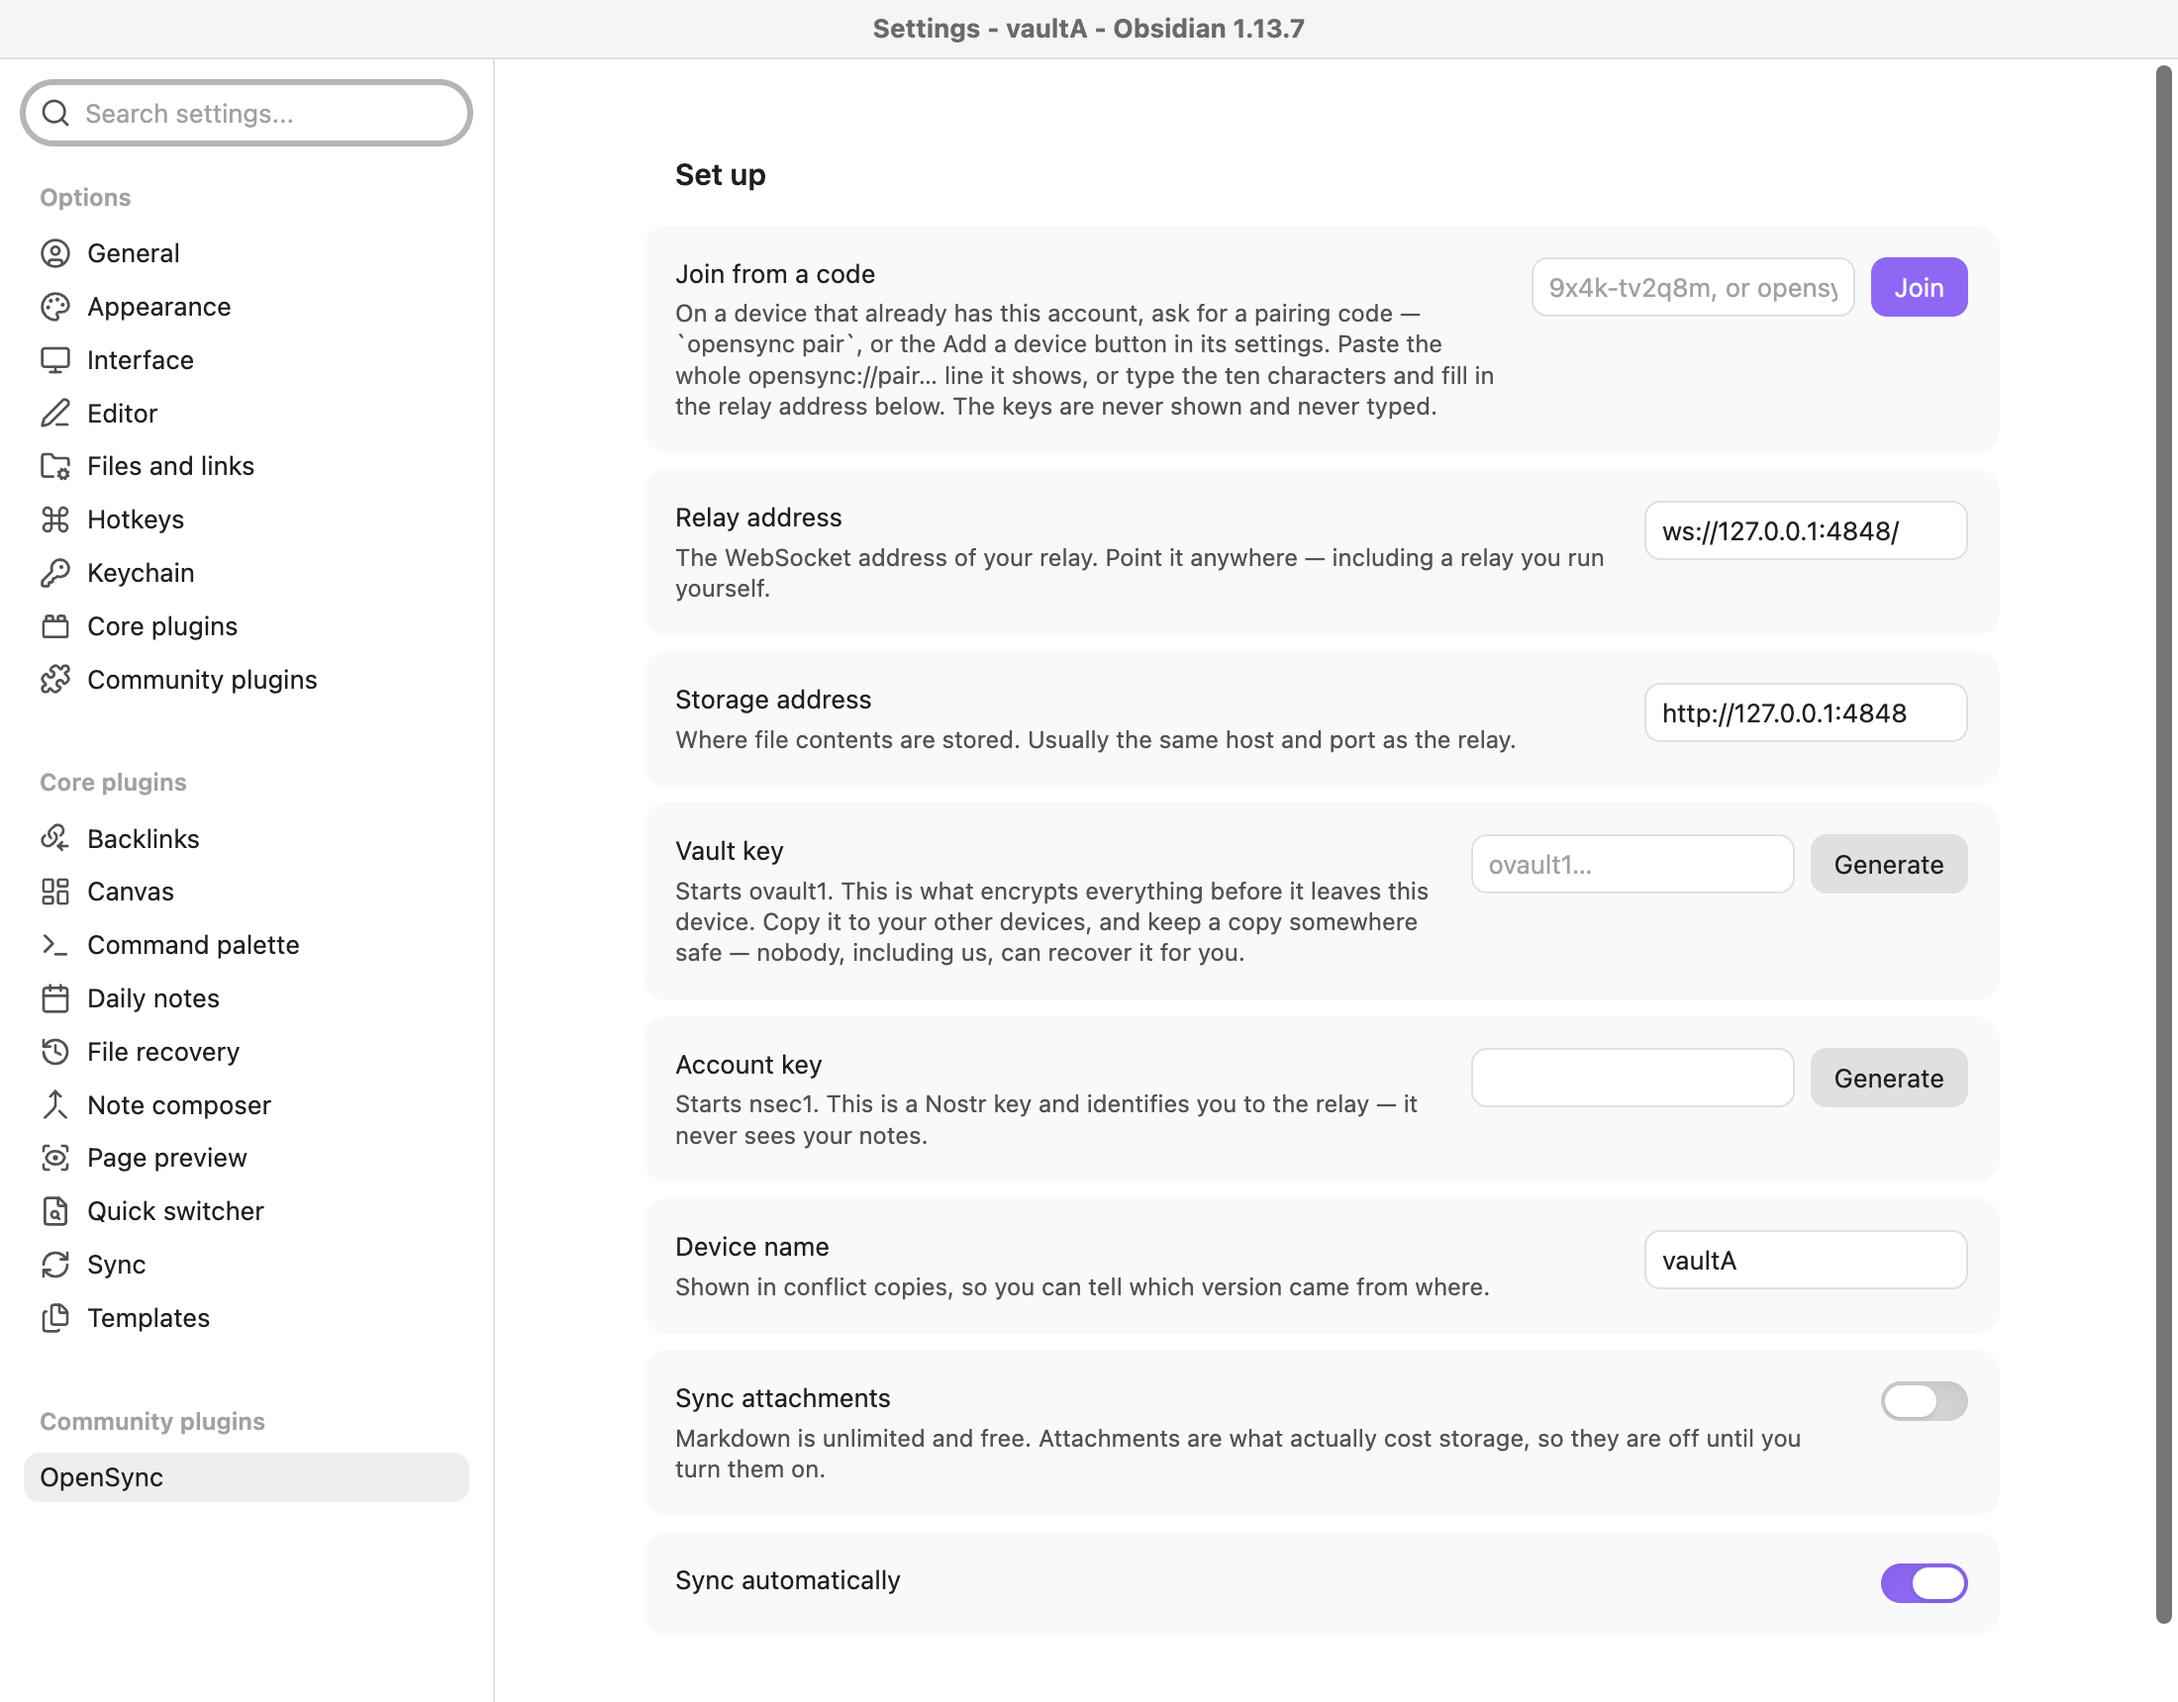
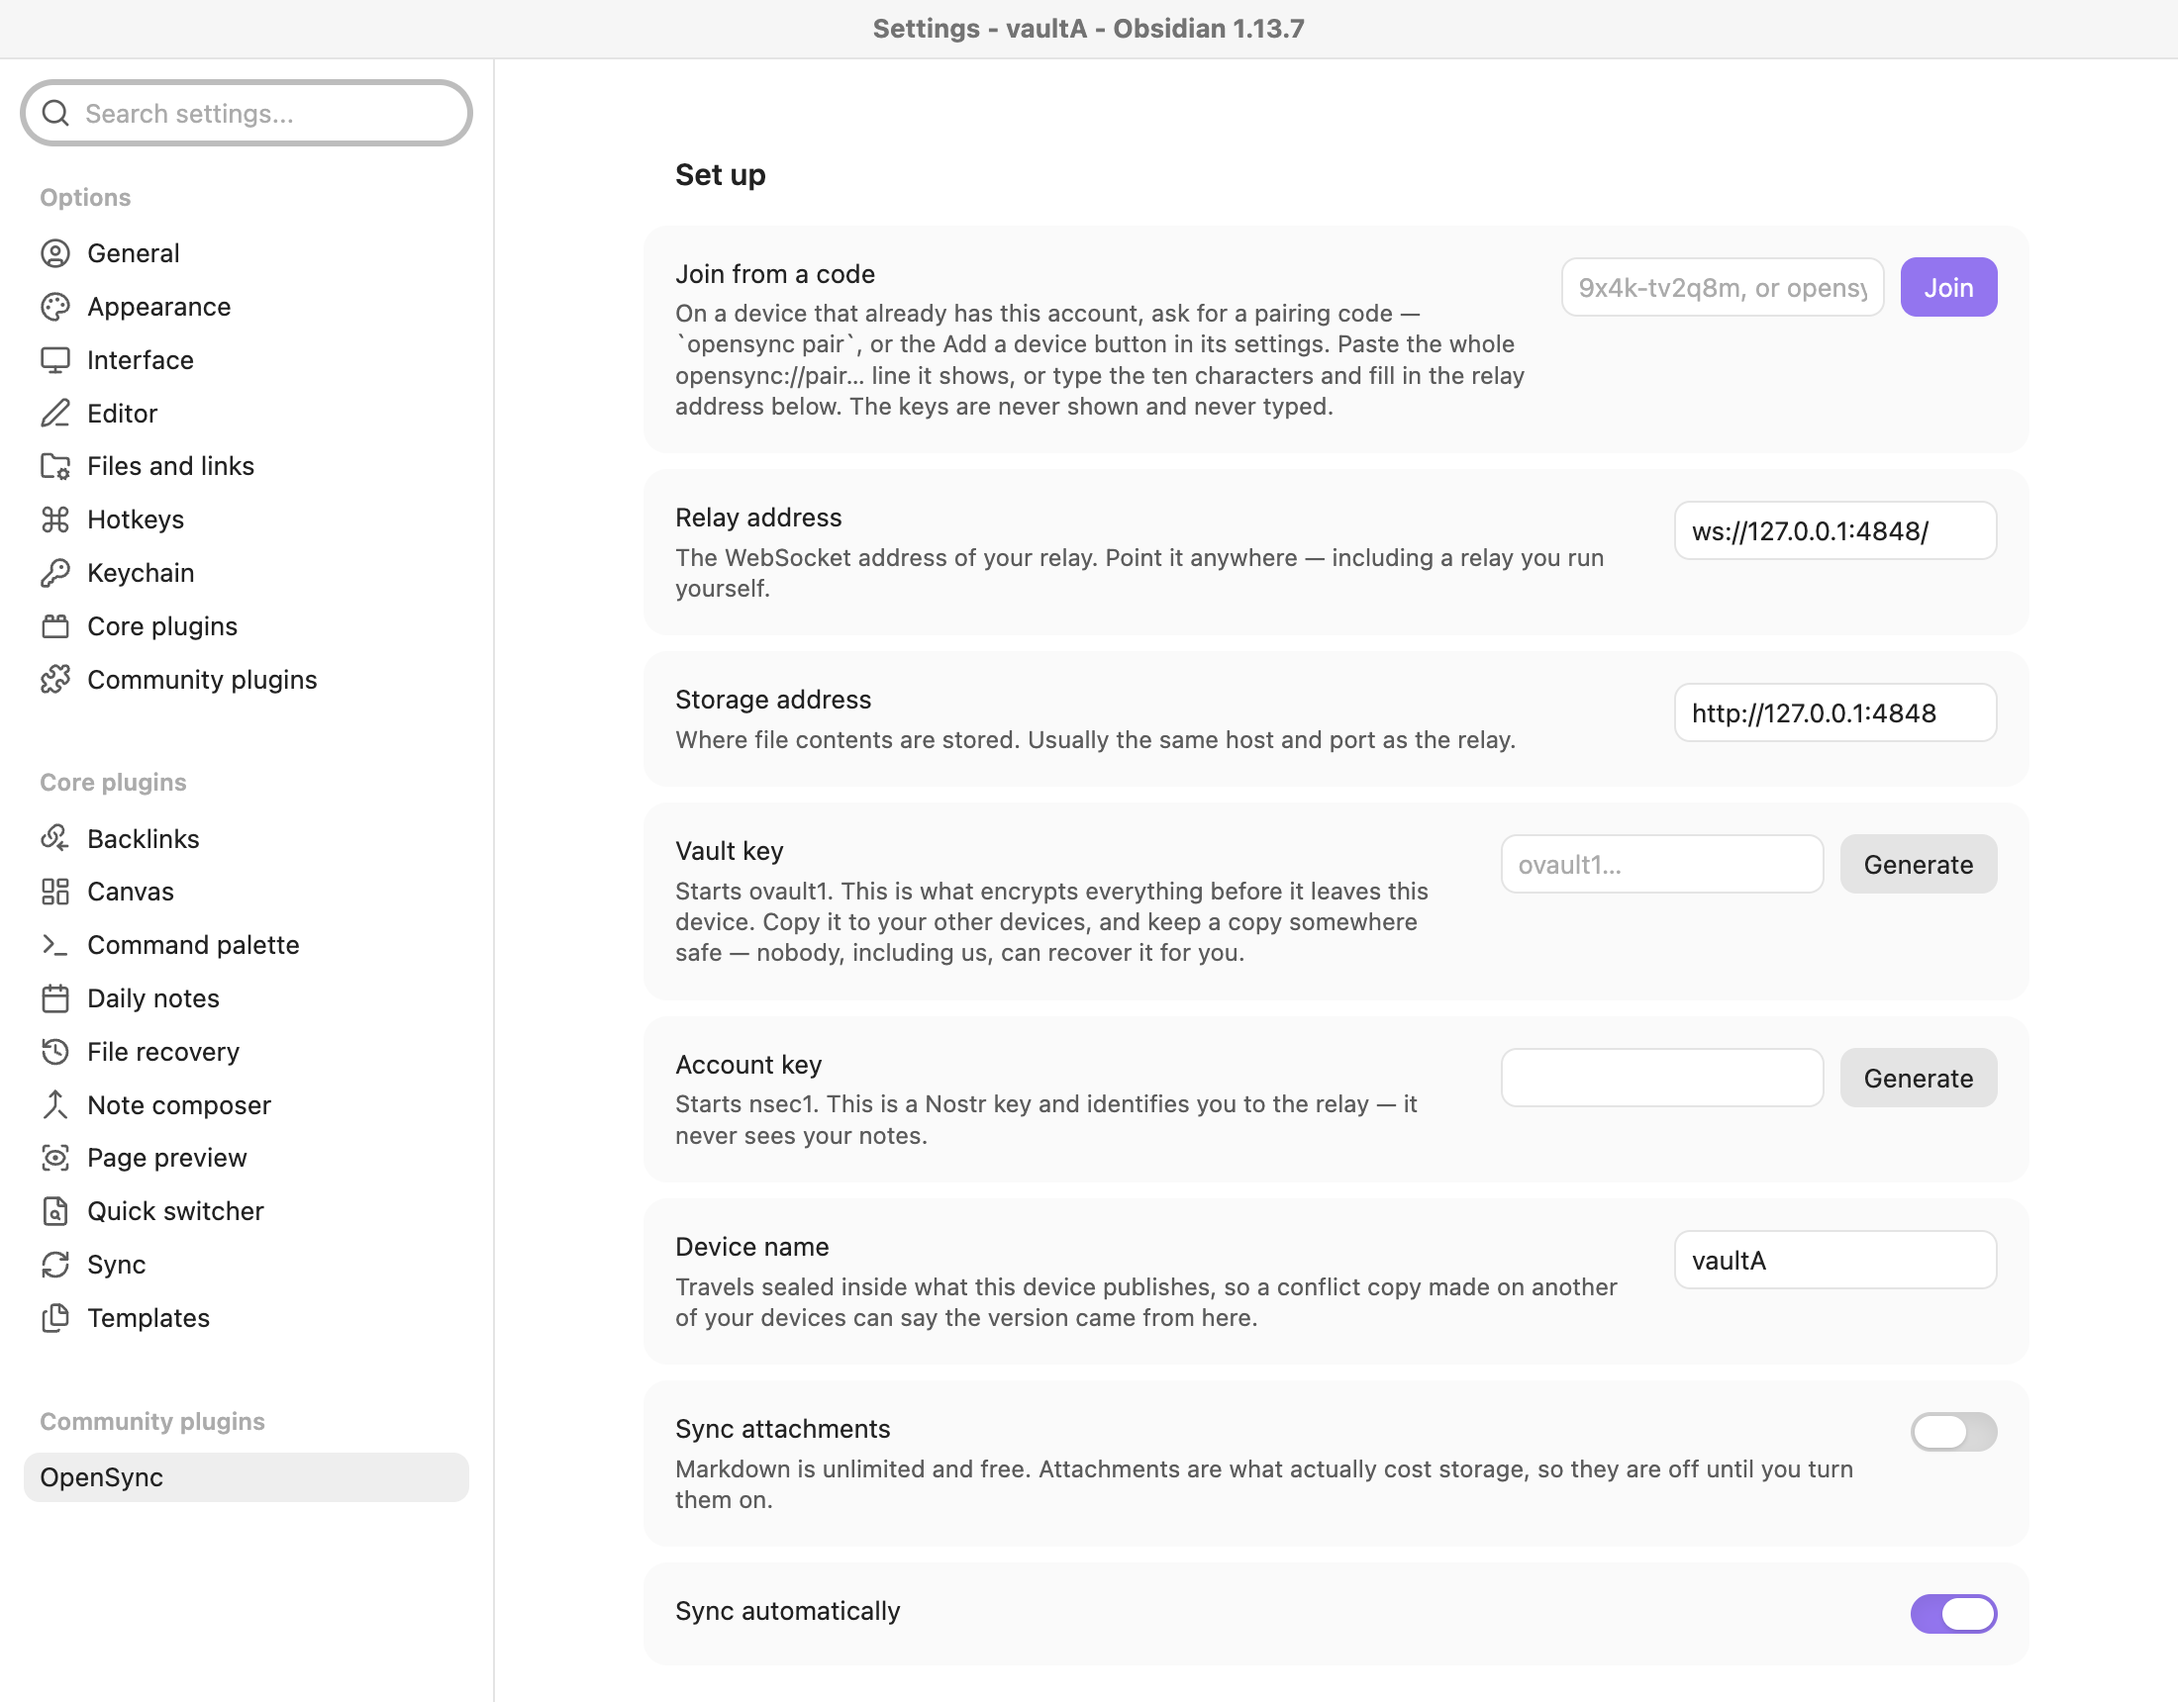
The copy now names the device whose version is in it, and today's date
The open finding from the last pass, fixed in the engine and verified here.
A manifest carries the name of the device that published it, so the device
doing the merge can name a conflict copy after the machine whose text is
inside it rather than after itself. `commit()` passes this vault's label;
`mergeManifests` keeps the same signature, and the label it takes now means
what it says — this device's name, stamped on what this device publishes.

Screenshot 07 is the proof: on vaultB, `Pairing (conflict 2026-09-11 from
vaultA).md`, containing the line written on vaultA. It used to read `from
vaultB`, on vaultB, over vaultA's words.

The check asserts both halves now — the name *and* the contents — because
asserting the name alone would pass just as happily with the two swapped
back.

Also, from the same run: a conflict copy made this morning was dated
yesterday. `toISOString` is UTC, and this date goes into a filename someone
reads to work out which of two files is newer; east of Greenwich that is off
by a day for most of the working day. Both places that stamp a date — the
copy and the recovery kit — now use the date on this device's clock.

And the harness keeps every console error and warning each window produces,
so a step that times out prints what both windows were saying and what the
plugin thought it was doing. A capture run stalled twice on a first sync and
left nothing behind but the word "timeout"; if it happens a third time there
will be something to read.
[…]

diff --git a/src/main.ts b/src/main.ts
@@ -89,6 +89,9 @@ interface ManifestJson {
   generation: number;
   updated_at: number;
   entries: Record<string, ManifestEntry>;
+  /** The device that published it. Absent on manifests written before the
+   *  field existed, and on surfaces that do not set one. */
+  device?: string;
 }
 
 export default class OpenSyncPlugin extends Plugin {
@@ -278,7 +281,11 @@ export default class OpenSyncPlugin extends Plugin {
       const files = await this.readVault();
       fresh.ns.clear();
       for (const [path, bytes] of files) fresh.ns.stage(path, bytes);
-      const commit: Commit = fresh.ns.commit(1n, BigInt(Math.floor(Date.now() / 1000)));
+      const commit: Commit = fresh.ns.commit(
+        1n,
+        BigInt(Math.floor(Date.now() / 1000)),
+        this.settings.deviceLabel,
+      );
       await this.publish(fresh.relay, commit);
       this.base = fresh.ns.openManifest(
         commit.blobs.find((b) => b.id === commit.root)!.bytes,
@@ -334,7 +341,13 @@ export default class OpenSyncPlugin extends Plugin {
     for (const [path, bytes] of local) ns.stage(path, bytes);
 
     const generation = (this.pointer?.generation ?? 0) + 1;
-    const commit: Commit = ns.commit(BigInt(generation), BigInt(Math.floor(Date.now() / 1000)));
+    // Sealed with this device's name in it, so the *other* device can name a
+    // conflict copy after this one. Nothing here reads it back for ourselves.
+    const commit: Commit = ns.commit(
+      BigInt(generation),
+      BigInt(Math.floor(Date.now() / 1000)),
+      this.settings.deviceLabel,
+    );
     const ours: ManifestJson = ns.openManifest(
       commit.blobs.find((b) => b.id === commit.root)!.bytes,
     );
@@ -377,7 +390,7 @@ export default class OpenSyncPlugin extends Plugin {
       return;
     }
 
-    const date = new Date().toISOString().slice(0, 10);
+    const date = today();
     const result = ns.mergeManifests(
       this.base ?? null,
       ours,
@@ -401,6 +414,7 @@ export default class OpenSyncPlugin extends Plugin {
     const republish: Commit = ns.commit(
       BigInt(incoming.generation + 1),
       BigInt(Math.floor(Date.now() / 1000)),
+      this.settings.deviceLabel,
     );
     await this.publish(relay, republish);
     this.base = ns.openManifest(republish.blobs.find((b) => b.id === republish.root)!.bytes);
@@ -519,6 +533,21 @@ function message(e: unknown): string {
   return e instanceof Error ? e.message : String(e);
 }
 
+/**
+ * Today, as this device's clock sees it.
+ *
+ * `toISOString` is UTC, and this date goes in a filename a person reads. East
+ * of Greenwich that stamped yesterday on a conflict copy made this morning,
+ * and on a recovery kit printed this afternoon — a small wrongness in exactly
+ * the two places somebody is trying to work out which of two files is newer.
+ */
+function today(): string {
+  const now = new Date();
+  return new Date(now.getTime() - now.getTimezoneOffset() * 60_000)
+    .toISOString()
+    .slice(0, 10);
+}
+
 class OpenSyncSettingTab extends PluginSettingTab {
   /**
    * What the pane should say once it has been rebuilt.
@@ -624,7 +653,9 @@ class OpenSyncSettingTab extends PluginSettingTab {
 
     new Setting(containerEl)
       .setName("Device name")
-      .setDesc("Shown in conflict copies, so you can tell which version came from where.")
+      .setDesc(
+        "Travels sealed inside what this device publishes, so a conflict copy made on another of your devices can say the version came from here.",
+      )
       .addText((t) =>
         t.setValue(this.plugin.settings.deviceLabel).onChange(async (v) => {
           this.plugin.settings.deviceLabel = v.trim() || this.app.vault.getName();
@@ -864,7 +895,7 @@ class OpenSyncSettingTab extends PluginSettingTab {
               settings.namespaceKey,
               settings.namespace,
               settings.deviceLabel,
-              new Date().toISOString().slice(0, 10),
+              today(),
             );
             // Shown in the settings pane rather than copied to the clipboard:
             // a clipboard is exactly where these two keys should not go.

diff --git a/README.md b/README.md
@@ -55,7 +55,7 @@ it. What none of them can say is whether Obsidian loads the plugin, whether
 the settings pane renders, whether a QR appears on a canvas, or whether the
 vault API writes a file where the manifest says it goes.
 
-Two of the things this repository does differently were found by running it:
+Four of the things this repository does differently were found by running it:
 
 - **Rotation reported into a box its own re-render emptied.** The pane
   rebuilds at the end so the new key appears in its field, and that erased
@@ -65,6 +65,17 @@ Two of the things this repository does differently were found by running it:
 - **A conflict copy said `from This device`.** Both devices shipped the same
   default label, so both sides of a fork were named the same thing. The
   default is now the vault's own name.
+- **And then it named the wrong device.** The copy holds the *incoming*
+  version — the local side keeps the path — but the only device name a
+  merging device knows is its own, so every copy was labelled with the machine
+  the reader was already sitting at. Fixed in the engine rather than here: a
+  manifest now carries the name of the device that published it, sealed with
+  everything else, and the copy is named from that. A manifest that names no
+  device produces `from another device`, which is vague and true, rather than
+  a name that is specific and wrong.
+- **A conflict copy made this morning was dated yesterday.** `toISOString` is
+  UTC, and this date goes in a filename someone reads to work out which of two
+  files is newer. It is now the date on this device's own clock.
 
 ## Screenshots
 
